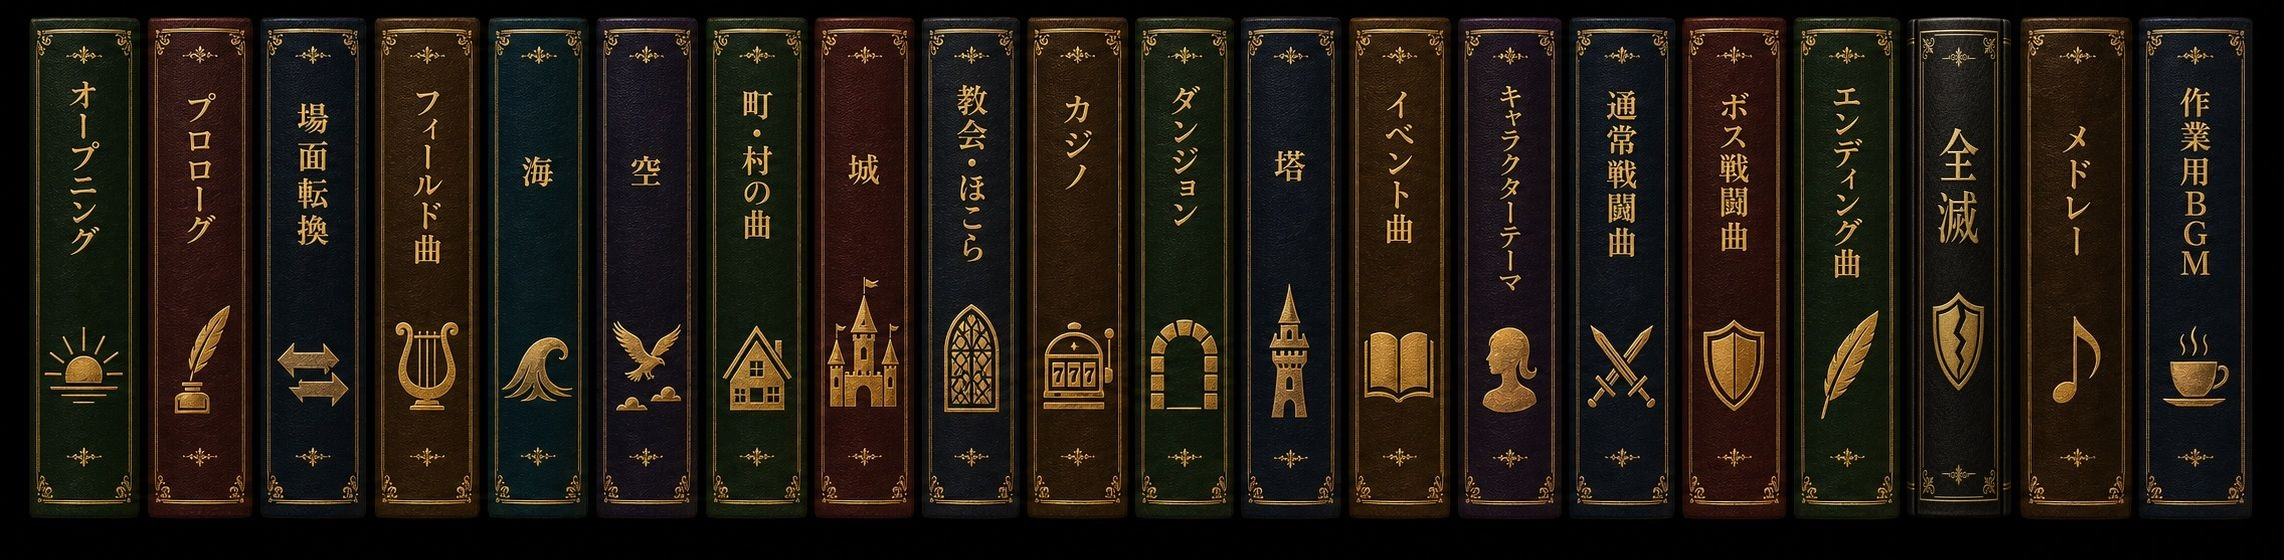
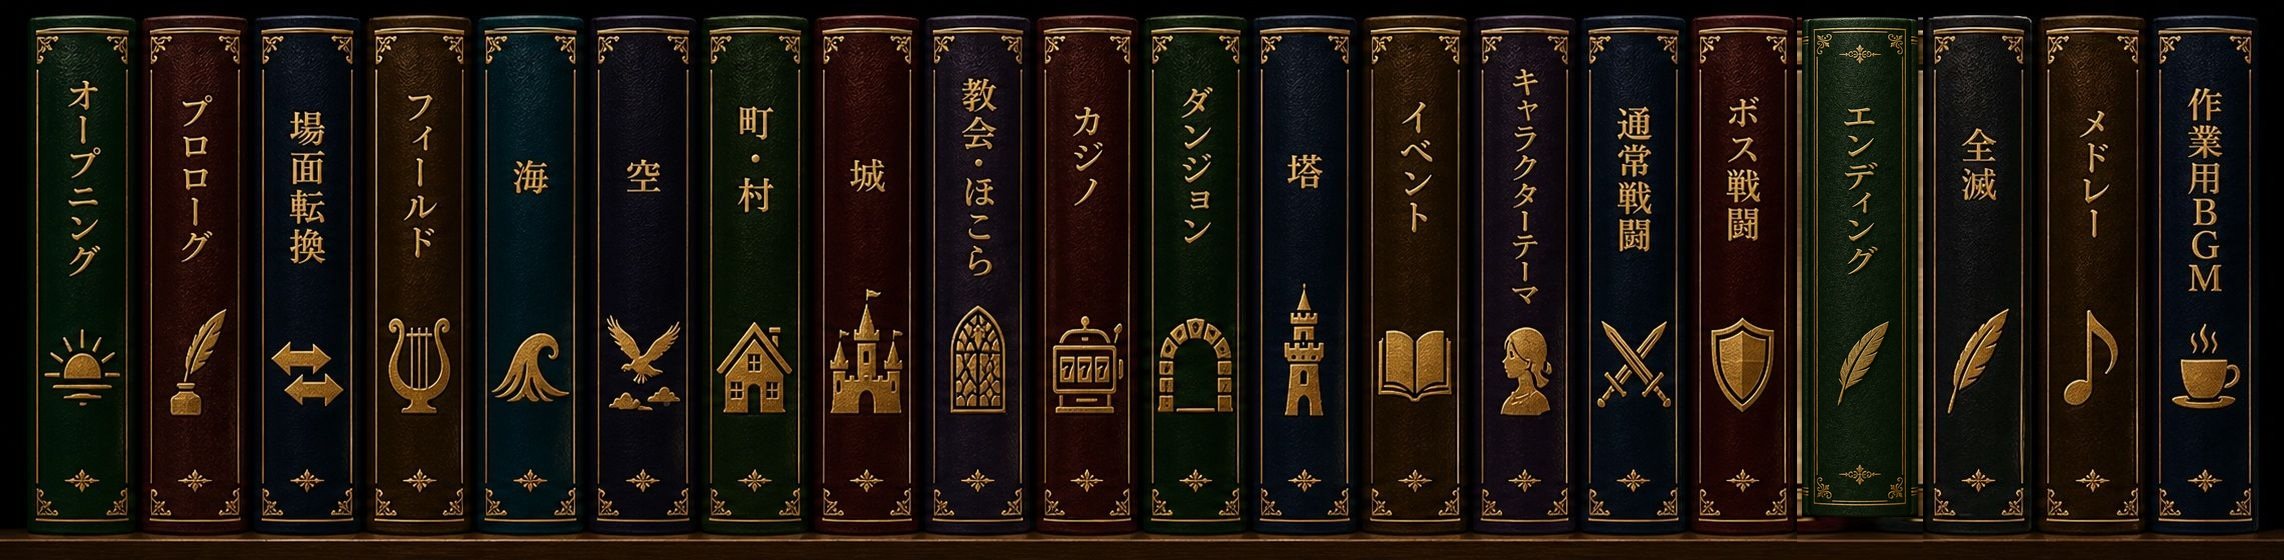
Remove kyoku from Japanese category spines

diff --git a/styles.css b/styles.css
@@ -2335,103 +2335,103 @@ h1 {
 }
 
 .bookcase-shelf-category .book-spine-category:nth-child(1) {
-  left: 1.401%;
-  width: 4.860%;
+  left: 1.051%;
+  width: 4.947%;
 }
 
 .bookcase-shelf-category .book-spine-category:nth-child(2) {
-  left: 6.305%;
-  width: 4.597%;
+  left: 6.130%;
+  width: 4.510%;
 }
 
 .bookcase-shelf-category .book-spine-category:nth-child(3) {
   left: 11.252%;
-  width: 4.597%;
+  width: 4.335%;
 }
 
 .bookcase-shelf-category .book-spine-category:nth-child(4) {
-  left: 16.506%;
-  width: 4.335%;
-}
-
-.bookcase-shelf-category .book-spine-category:nth-child(5) {
-  left: 21.191%;
-  width: 4.685%;
-}
-
-.bookcase-shelf-category .book-spine-category:nth-child(6) {
-  left: 26.226%;
-  width: 4.159%;
-}
-
-.bookcase-shelf-category .book-spine-category:nth-child(7) {
-  left: 30.736%;
-  width: 4.729%;
-}
-
-.bookcase-shelf-category .book-spine-category:nth-child(8) {
-  left: 35.508%;
-  width: 4.641%;
-}
-
-.bookcase-shelf-category .book-spine-category:nth-child(9) {
-  left: 40.193%;
-  width: 4.335%;
-}
-
-.bookcase-shelf-category .book-spine-category:nth-child(10) {
-  left: 44.790%;
-  width: 4.729%;
-}
-
-.bookcase-shelf-category .book-spine-category:nth-child(11) {
-  left: 49.781%;
-  width: 4.378%;
-}
-
-.bookcase-shelf-category .book-spine-category:nth-child(12) {
-  left: 54.159%;
-  width: 4.422%;
-}
-
-.bookcase-shelf-category .book-spine-category:nth-child(13) {
-  left: 59.151%;
-  width: 4.466%;
-}
-
-.bookcase-shelf-category .book-spine-category:nth-child(14) {
-  left: 63.660%;
+  left: 15.893%;
   width: 4.553%;
 }
 
-.bookcase-shelf-category .book-spine-category:nth-child(15) {
-  left: 68.520%;
-  width: 4.947%;
+.bookcase-shelf-category .book-spine-category:nth-child(5) {
+  left: 21.060%;
+  width: 4.291%;
 }
 
-.bookcase-shelf-category .book-spine-category:nth-child(16) {
-  left: 73.468%;
+.bookcase-shelf-category .book-spine-category:nth-child(6) {
+  left: 25.963%;
+  width: 4.335%;
+}
+
+.bookcase-shelf-category .book-spine-category:nth-child(7) {
+  left: 30.604%;
   width: 4.597%;
 }
 
+.bookcase-shelf-category .book-spine-category:nth-child(8) {
+  left: 35.595%;
+  width: 4.466%;
+}
+
+.bookcase-shelf-category .book-spine-category:nth-child(9) {
+  left: 40.674%;
+  width: 4.247%;
+}
+
+.bookcase-shelf-category .book-spine-category:nth-child(10) {
+  left: 45.271%;
+  width: 4.378%;
+}
+
+.bookcase-shelf-category .book-spine-category:nth-child(11) {
+  left: 50.219%;
+  width: 4.203%;
+}
+
+.bookcase-shelf-category .book-spine-category:nth-child(12) {
+  left: 54.991%;
+  width: 4.203%;
+}
+
+.bookcase-shelf-category .book-spine-category:nth-child(13) {
+  left: 59.501%;
+  width: 4.553%;
+}
+
+.bookcase-shelf-category .book-spine-category:nth-child(14) {
+  left: 64.667%;
+  width: 4.116%;
+}
+
+.bookcase-shelf-category .book-spine-category:nth-child(15) {
+  left: 69.352%;
+  width: 4.247%;
+}
+
+.bookcase-shelf-category .book-spine-category:nth-child(16) {
+  left: 73.949%;
+  width: 4.422%;
+}
+
 .bookcase-shelf-category .book-spine-category:nth-child(17) {
-  left: 78.371%;
-  width: 4.947%;
+  left: 78.503%;
+  width: 5.823%;
 }
 
 .bookcase-shelf-category .book-spine-category:nth-child(18) {
-  left: 83.144%;
-  width: 5.254%;
+  left: 84.457%;
+  width: 4.641%;
 }
 
 .bookcase-shelf-category .book-spine-category:nth-child(19) {
-  left: 88.266%;
-  width: 5.210%;
+  left: 89.098%;
+  width: 4.685%;
 }
 
 .bookcase-shelf-category .book-spine-category:nth-child(20) {
-  left: 93.476%;
-  width: 4.947%;
+  left: 94.133%;
+  width: 4.597%;
 }
 
 .bookcase-shelf-category-en .book-spine-category {
